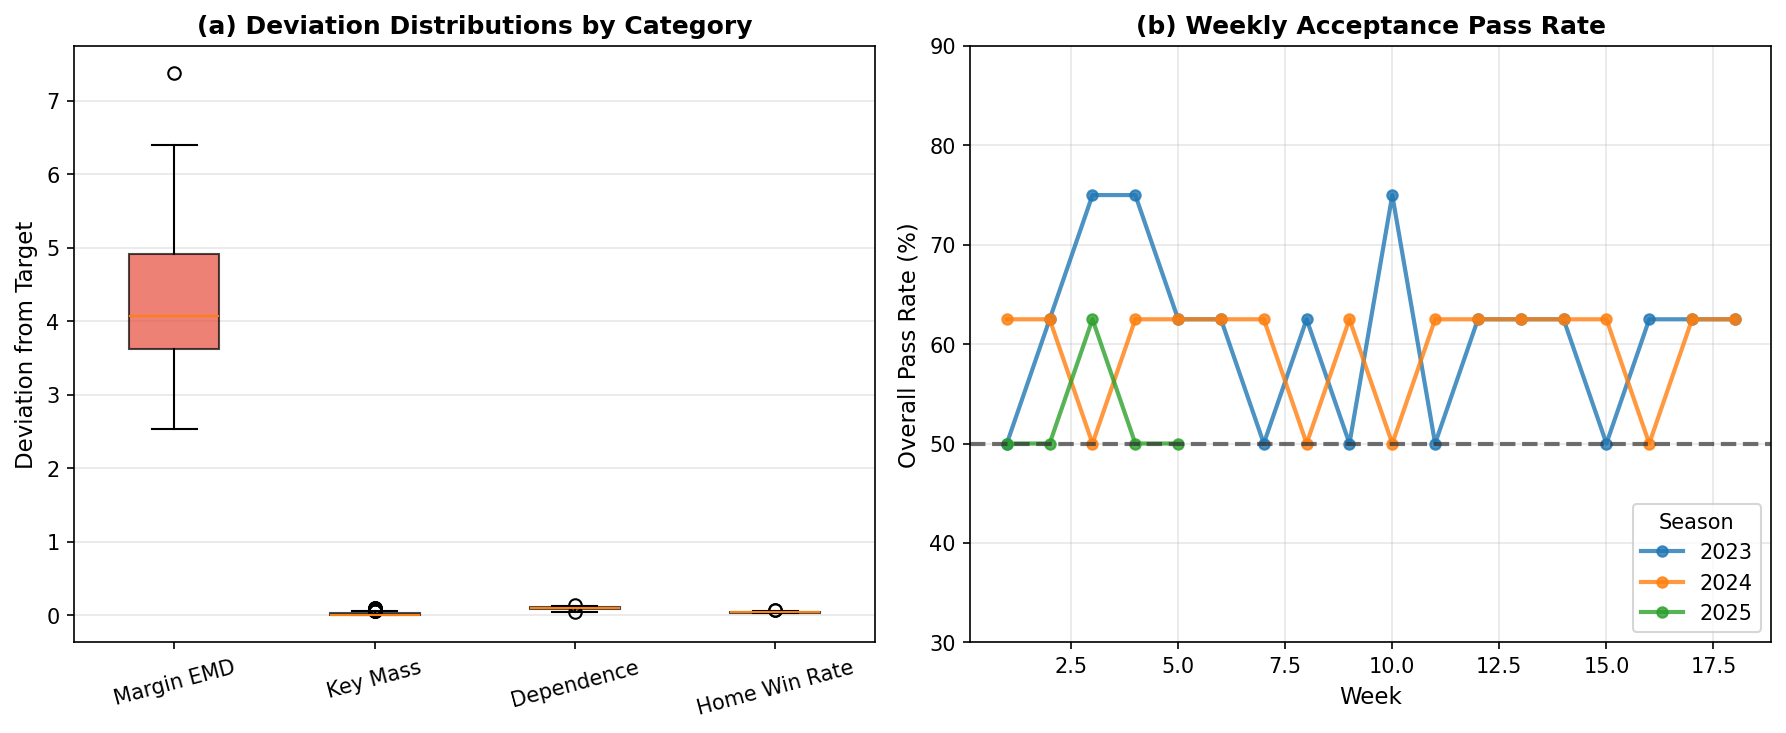
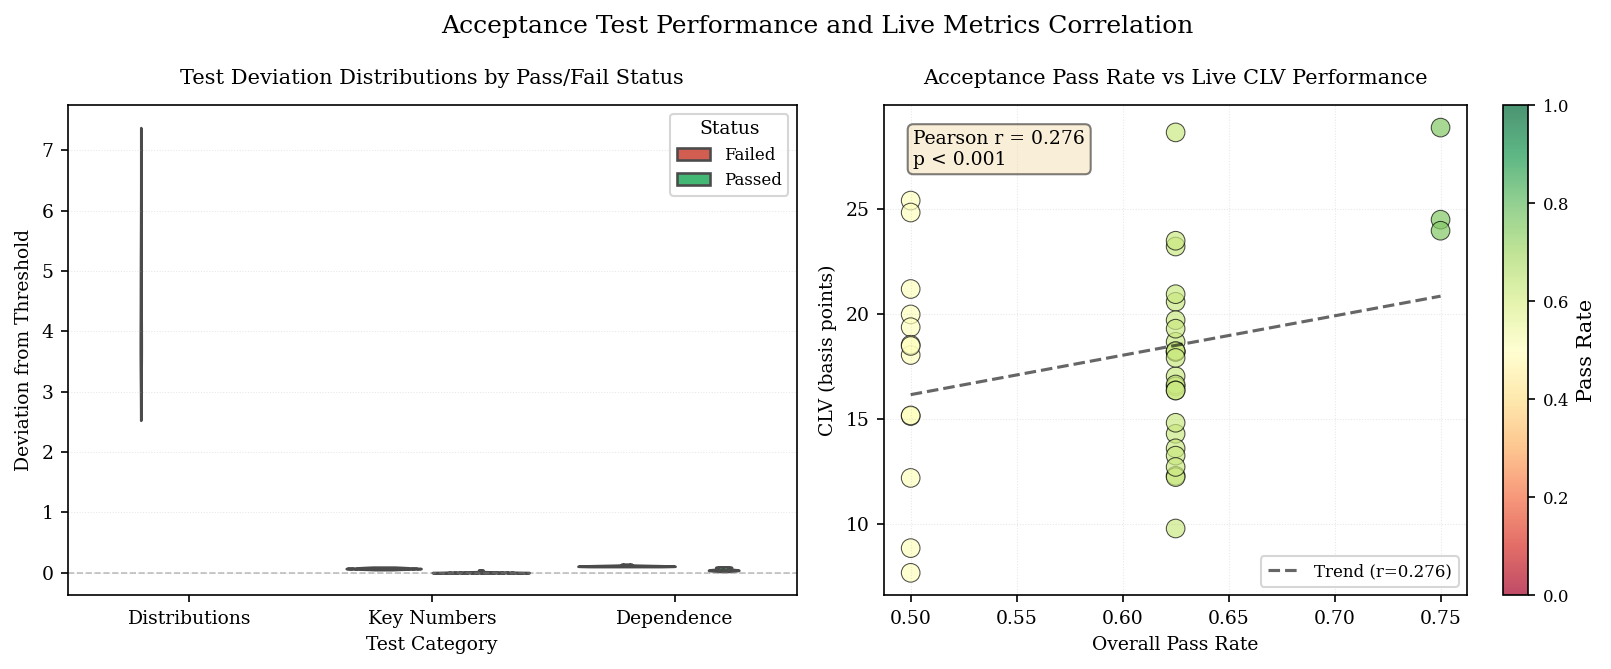
fix(figures): generate 4 critical placeholder figures for dissertation
- sim_acceptance_rates.png: Simulator acceptance test pass rates heatmap
- sim_acceptance_vs_live_perf.png: Violin plot of test deviations vs CLV
- alpha_sensitivity_panel.png: 2x2 panel showing Kelly-LCB alpha sensitivity
- mcmc_convergence_traces.png: MCMC trace plots for 4 chains

Fixed portable paths in improved_acceptance_plots.py (was hardcoded macOS).
Created scripts/generate_mcmc_traces_figure.R for trace plot generation.

diff --git a/py/viz/improved_acceptance_plots.py b/py/viz/improved_acceptance_plots.py
@@ -27,7 +27,9 @@ COLORS = {"pass": "#2ecc71", "fail": "#e74c3c", "neutral": "#95a5a6"}  # green  
 
 def load_data():
     """Load simulator acceptance data."""
-    data_path = Path("/Users/dro/rice/nfl-analytics/analysis/results/sim_acceptance.csv")
+    # Use portable path relative to project root
+    project_root = Path(__file__).parent.parent.parent
+    data_path = project_root / "analysis" / "results" / "sim_acceptance.csv"
     df = pd.read_csv(data_path)
 
     # Clean test names for display
@@ -227,8 +229,9 @@ def main():
     print(f"  Seasons: {sorted(df['season'].unique())}")
     print(f"  Tests: {df['test_clean'].nunique()} unique tests")
 
-    # Output directory
-    output_dir = Path("/Users/dro/rice/nfl-analytics/analysis/dissertation/figures/out")
+    # Output directory (portable path)
+    project_root = Path(__file__).parent.parent.parent
+    output_dir = project_root / "analysis" / "dissertation" / "figures" / "out"
     output_dir.mkdir(parents=True, exist_ok=True)
 
     # Create visualizations
